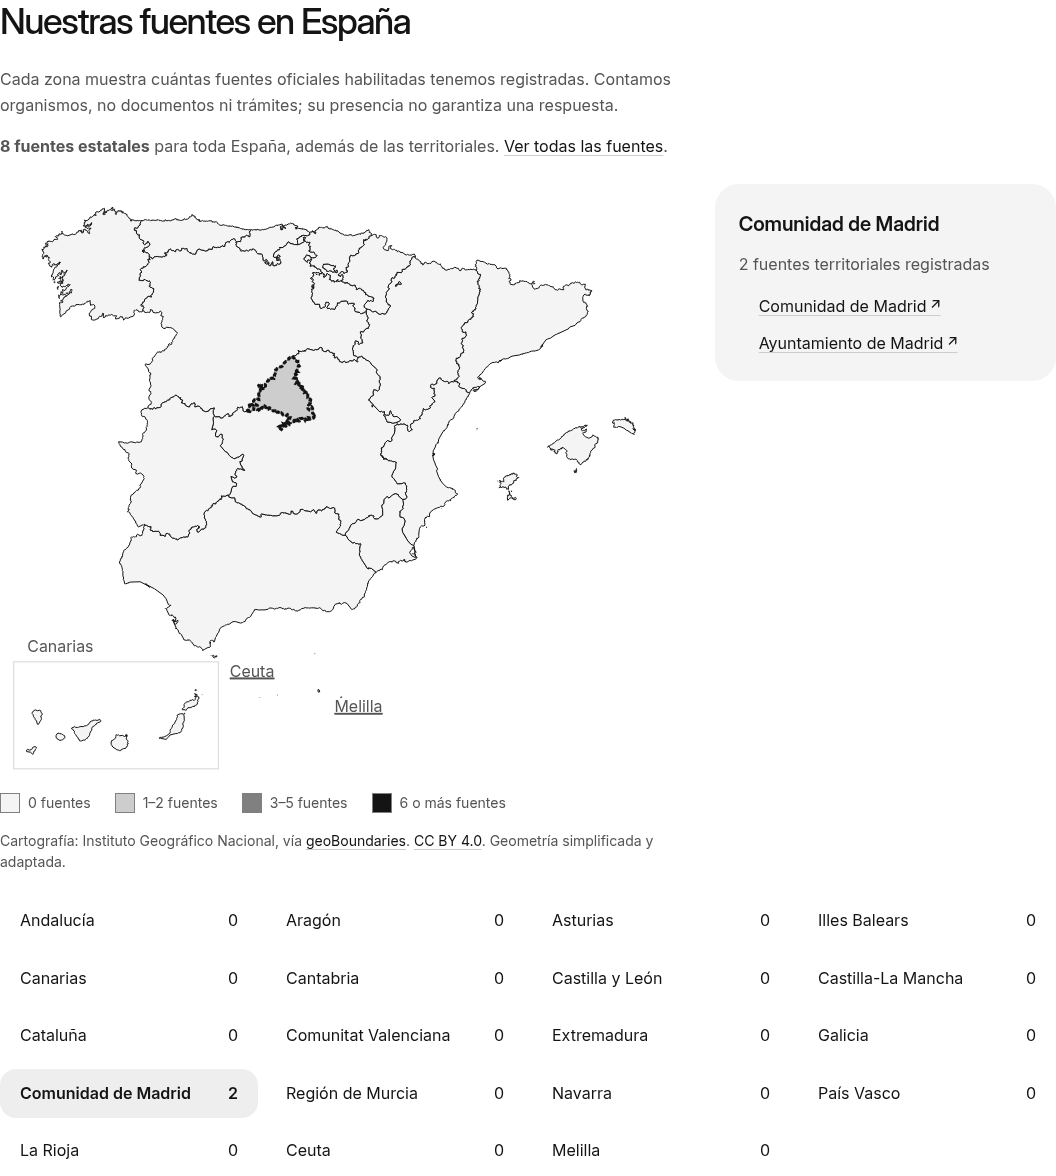
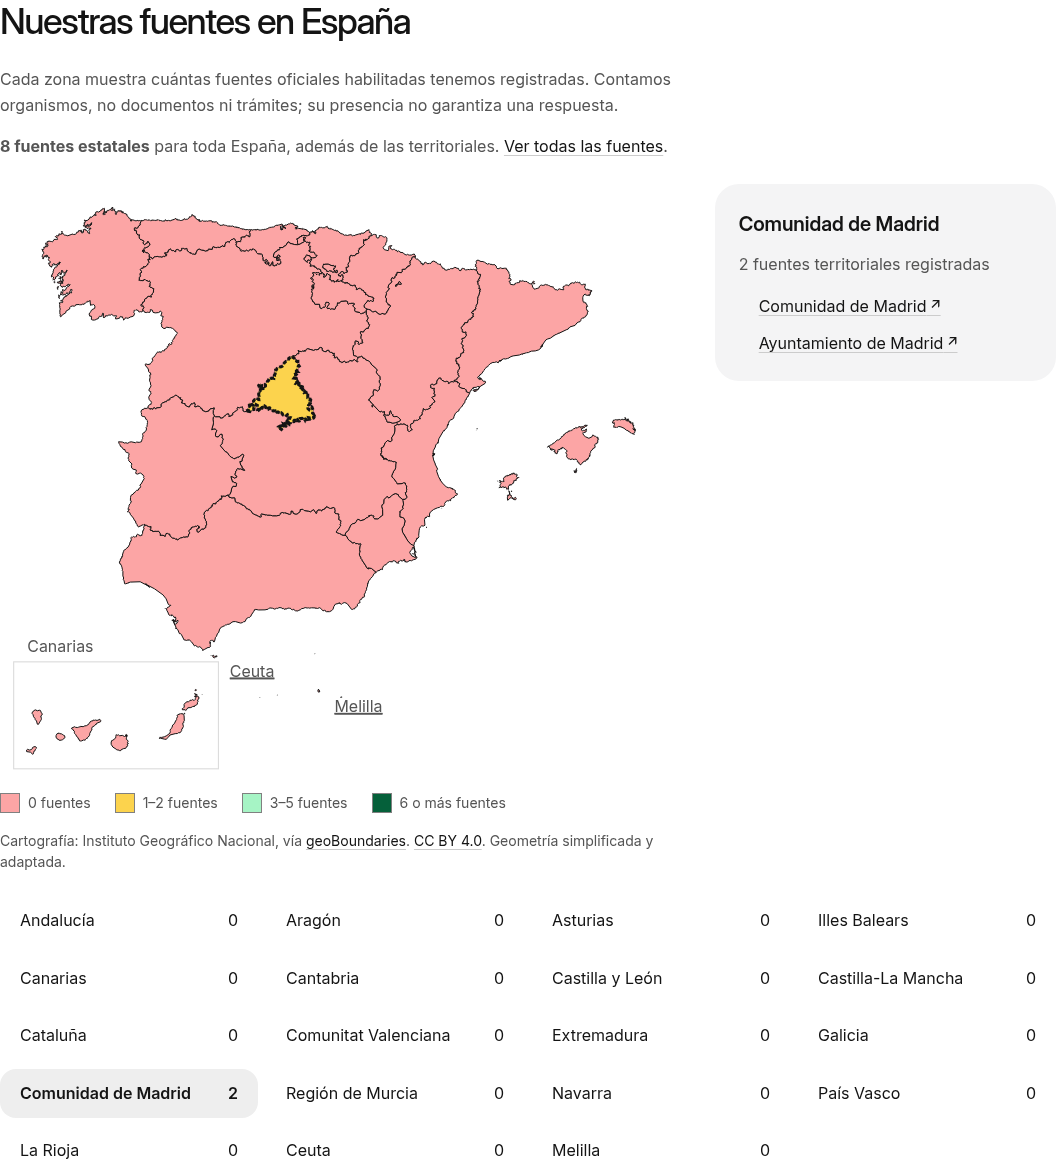
feat(web): colorea el mapa según las fuentes por territorio

diff --git a/apps/web/landing/sources-map.css b/apps/web/landing/sources-map.css
@@ -34,20 +34,20 @@
   stroke: rgb(var(--bg-surface));
 }
 .sources-map [data-band='0'] {
-  fill: rgb(var(--bg-surface-muted));
-  background: rgb(var(--bg-surface-muted));
+  fill: rgb(var(--bg-danger-line));
+  background: rgb(var(--bg-danger-line));
 }
 .sources-map [data-band='1'] {
-  fill: rgb(var(--bg-brand-200));
-  background: rgb(var(--bg-brand-200));
+  fill: rgb(var(--bg-warning-line));
+  background: rgb(var(--bg-warning-line));
 }
 .sources-map [data-band='2'] {
-  fill: rgb(var(--bg-line-control));
-  background: rgb(var(--bg-line-control));
+  fill: rgb(var(--bg-success-line));
+  background: rgb(var(--bg-success-line));
 }
 .sources-map [data-band='3'] {
-  fill: rgb(var(--bg-brand-600));
-  background: rgb(var(--bg-brand-600));
+  fill: rgb(var(--bg-success-fg));
+  background: rgb(var(--bg-success-fg));
 }
 .sources-map-region[aria-current] path {
   stroke: rgb(var(--bg-brand-600));

diff --git a/DESIGN.md b/DESIGN.md
@@ -196,4 +196,4 @@ La web pública (`apps/web`: landing, chat y páginas informativas) usa los mism
 - El hero usa exclusivamente los tokens neutros: `surface-muted` en el fondo, `ink` en el titular y `brand-600` en las acciones. La fotografía de Madrid conserva su tratamiento en blanco y negro; la descripción de las herramientas aparece dentro de la imagen, en `ink-inverse`, sobre un degradado oscuro para mantener el contraste. La foto crece si el composer o la descripción necesitan más espacio. Las sedes de la demo mantienen sus colores oficiales.
 - La portada es el ensayo de `apps/web/landing`. El hero centra el mensaje sobre la fotografía de Madrid, con el composer en su borde superior y el enlace de descarga debajo. Su marco mide hasta 1472 px, tiene 32 px de radio y márgenes de 32 px; la fotografía mide hasta 1016 px. En móvil, los márgenes son de 20 px, el fondo neutro empieza bajo la navegación y la foto tiene 24 px de radio. El composer conserva el campo nativo, crece con el texto hasta 140 px y muestra foco visible. Hasta 1023 px, el menú conserva el icono de hamburguesa con un objetivo táctil de 44 × 44 px. La demo de la extensión es `DemoTransform`: Original y Mejorada a la vez en la figura del artículo, y una sola vista en `/demo`. No alterna sola. No se usa un saludo de chatbot. Las demostraciones de sedes conservan sus colores oficiales y los componentes compartidos.
 - La respuesta aparece según llega, sin animaciones de entrada. Como indicador de actividad, el texto «Pensando» conserva un brillo neutro mientras hay trabajo pendiente; queda estático con `prefers-reduced-motion`. No se anima el resto del contenido al entrar.
-- El mapa de fuentes de la portada usa cuatro intensidades neutras: `surface-muted` para 0, `brand-200` para 1–2, `line-control` para 3–5 y `brand-600` para 6 o más fuentes territoriales. La leyenda y las cantidades expresan el dato también sin color; la selección tiene contorno y una lista de botones accesibles. Las fuentes estatales se muestran aparte.
+- El mapa de fuentes de la portada usa cuatro colores del sistema: `danger-line` (rojo) para 0, `warning-line` (amarillo) para 1–2, `success-line` (verde claro) para 3–5 y `success-fg` (verde oscuro) para 6 o más fuentes territoriales. La leyenda y las cantidades expresan el dato también sin color; la selección tiene contorno y una lista de botones accesibles. Las fuentes estatales se muestran aparte.
